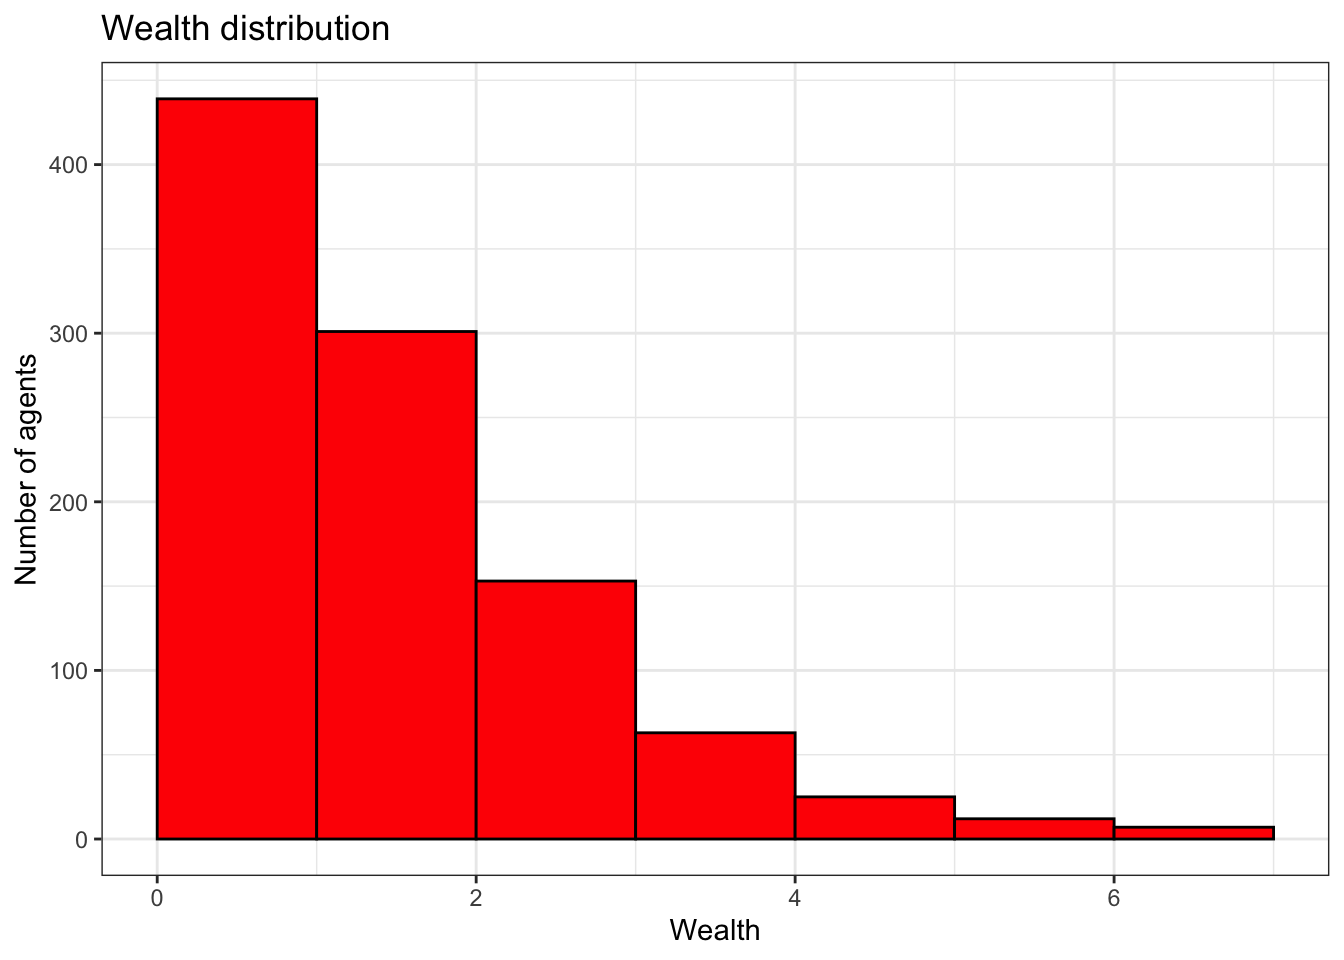
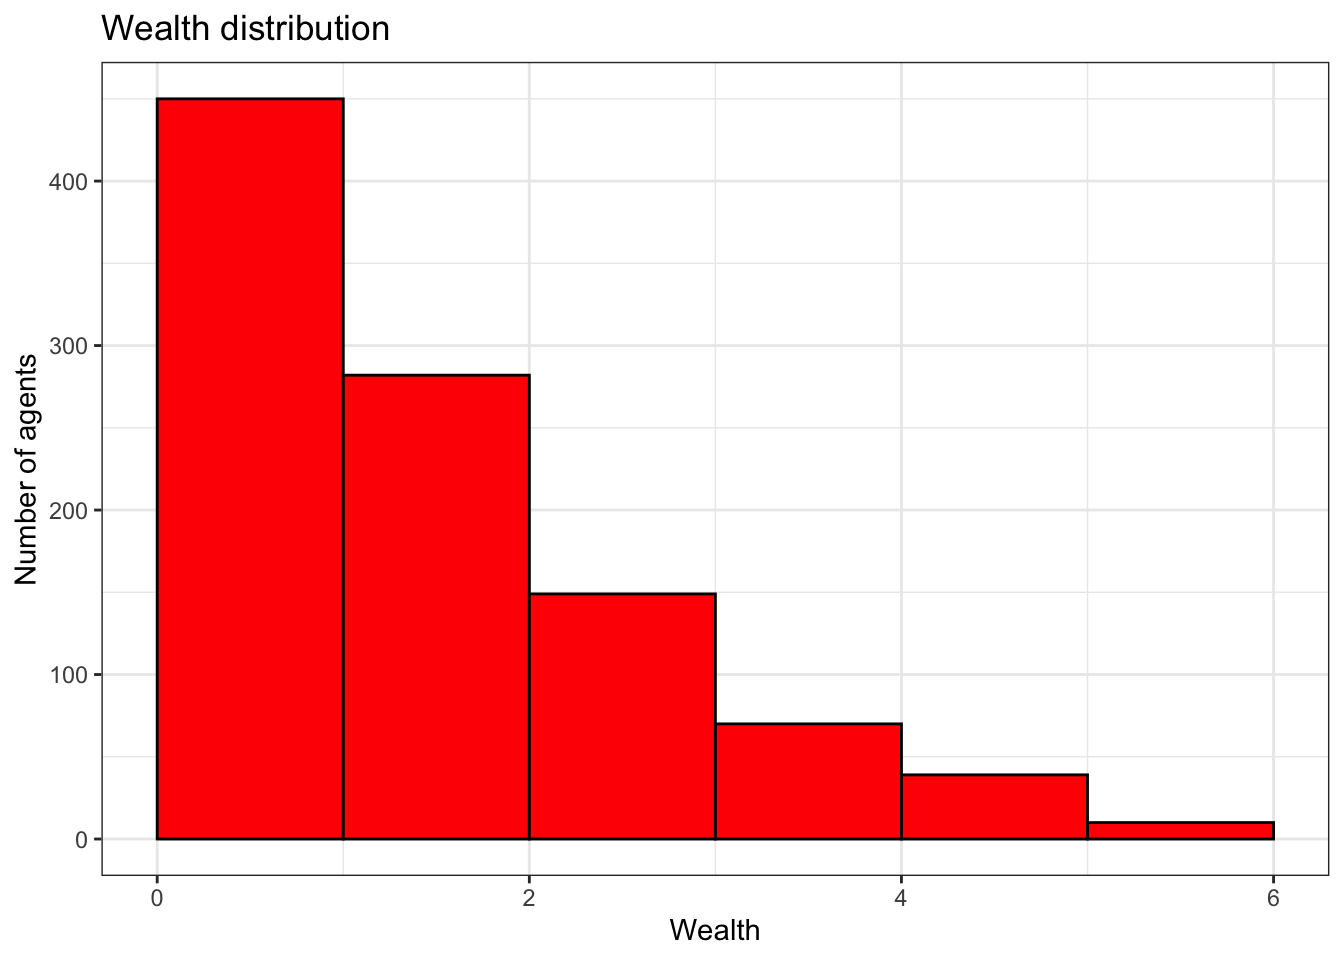
update

diff --git a/docs/index.html b/docs/index.html
@@ -360,16 +360,16 @@ pre > code.sourceCode > span > a:first-child::before { text-decoration: underlin
 <span id="cb7-5"><a href="#cb7-5" aria-hidden="true" tabindex="-1"></a><span class="co"># 运行模型的 step 方法，激活所有 Agent</span></span>
 <span id="cb7-6"><a href="#cb7-6" aria-hidden="true" tabindex="-1"></a>starter_model.step()</span></code><button title="Copy to Clipboard" class="code-copy-button"><i class="bi"></i></button></pre></div>
 <div class="cell-output cell-output-stdout">
-<pre><code>Hi, I am an agent, you can call me 3.
-Hi, I am an agent, you can call me 10.
-Hi, I am an agent, you can call me 9.
-Hi, I am an agent, you can call me 8.
+<pre><code>Hi, I am an agent, you can call me 2.
+Hi, I am an agent, you can call me 1.
 Hi, I am an agent, you can call me 4.
+Hi, I am an agent, you can call me 10.
+Hi, I am an agent, you can call me 8.
 Hi, I am an agent, you can call me 7.
-Hi, I am an agent, you can call me 2.
 Hi, I am an agent, you can call me 6.
 Hi, I am an agent, you can call me 5.
-Hi, I am an agent, you can call me 1.</code></pre>
+Hi, I am an agent, you can call me 3.
+Hi, I am an agent, you can call me 9.</code></pre>
 </div>
 </div>
 <p>如果在创建对象时传入了 <code>seed</code> 参数，则每次运行模型时 <code>Agent</code> 的顺序会保持一致。</p>
@@ -424,16 +424,16 @@ Hi, I am an agent, you can call me 8.</code></pre>
 <span id="cb11-28"><a href="#cb11-28" aria-hidden="true" tabindex="-1"></a>starter_model <span class="op">=</span> MoneyModel(<span class="dv">10</span>)</span>
 <span id="cb11-29"><a href="#cb11-29" aria-hidden="true" tabindex="-1"></a>starter_model.step()</span></code><button title="Copy to Clipboard" class="code-copy-button"><i class="bi"></i></button></pre></div>
 <div class="cell-output cell-output-stdout">
-<pre><code>Hi, I am an agent 1,and I have 1 dollars.
+<pre><code>Hi, I am an agent 8,and I have 1 dollars.
 Hi, I am an agent 4,and I have 1 dollars.
+Hi, I am an agent 7,and I have 1 dollars.
+Hi, I am an agent 1,and I have 1 dollars.
+Hi, I am an agent 2,and I have 1 dollars.
 Hi, I am an agent 6,and I have 1 dollars.
 Hi, I am an agent 5,and I have 1 dollars.
-Hi, I am an agent 10,and I have 1 dollars.
-Hi, I am an agent 8,and I have 1 dollars.
 Hi, I am an agent 3,and I have 1 dollars.
-Hi, I am an agent 9,and I have 1 dollars.
-Hi, I am an agent 2,and I have 1 dollars.
-Hi, I am an agent 7,and I have 1 dollars.</code></pre>
+Hi, I am an agent 10,and I have 1 dollars.
+Hi, I am an agent 9,and I have 1 dollars.</code></pre>
 </div>
 </div>
 </section>
@@ -1387,13 +1387,17 @@ Step AgentID
 <span id="cb51-38"><a href="#cb51-38" aria-hidden="true" tabindex="-1"></a>        <span class="va">self</span>.datacollector.collect(<span class="va">self</span>)</span>
 <span id="cb51-39"><a href="#cb51-39" aria-hidden="true" tabindex="-1"></a>        <span class="co"># 用 agent.select 获取贫富 Agent 的列表</span></span>
 <span id="cb51-40"><a href="#cb51-40" aria-hidden="true" tabindex="-1"></a>        <span class="co"># 这里的 lambda 等于 R 的匿名函数 ~</span></span>
-<span id="cb51-41"><a href="#cb51-41" aria-hidden="true" tabindex="-1"></a>        rich_agents <span class="op">=</span> <span class="va">self</span>.agents.select(<span class="kw">lambda</span> a: a.wealth <span class="op">&gt;=</span> <span class="dv">3</span>)</span>
-<span id="cb51-42"><a href="#cb51-42" aria-hidden="true" tabindex="-1"></a>        poor_agents <span class="op">=</span> <span class="va">self</span>.agents.select(<span class="kw">lambda</span> a: a.wealth <span class="op">&lt;</span> <span class="dv">3</span>)</span>
-<span id="cb51-43"><a href="#cb51-43" aria-hidden="true" tabindex="-1"></a>        <span class="co"># 当有富裕的 Agent 时，富裕的 Agent 给贫穷的 Agent 传递财富</span></span>
-<span id="cb51-44"><a href="#cb51-44" aria-hidden="true" tabindex="-1"></a>        <span class="cf">if</span> <span class="bu">len</span>(rich_agents) <span class="op">&gt;</span> <span class="dv">0</span>:</span>
-<span id="cb51-45"><a href="#cb51-45" aria-hidden="true" tabindex="-1"></a>            rich_agents.shuffle_do(<span class="st">"give_money"</span>, poor_agents)</span>
-<span id="cb51-46"><a href="#cb51-46" aria-hidden="true" tabindex="-1"></a>        <span class="cf">else</span>:</span>
-<span id="cb51-47"><a href="#cb51-47" aria-hidden="true" tabindex="-1"></a>            poor_agents.shuffle_do(<span class="st">"give_money"</span>, poor_agents)</span></code><button title="Copy to Clipboard" class="code-copy-button"><i class="bi"></i></button></pre></div>
+<span id="cb51-41"><a href="#cb51-41" aria-hidden="true" tabindex="-1"></a>        <span class="co"># 在原本的教程中，这里写作model.agents.select</span></span>
+<span id="cb51-42"><a href="#cb51-42" aria-hidden="true" tabindex="-1"></a>        <span class="co"># 这在原生 python 环境中没有问题，因为在调用 model = MoneyModel(100) 时</span></span>
+<span id="cb51-43"><a href="#cb51-43" aria-hidden="true" tabindex="-1"></a>        <span class="co"># 会创建全局变量 model，但在 R 中运行模型时，无法找到</span></span>
+<span id="cb51-44"><a href="#cb51-44" aria-hidden="true" tabindex="-1"></a>        <span class="co"># 因此在这里改写成了更规范的 self.agents.select</span></span>
+<span id="cb51-45"><a href="#cb51-45" aria-hidden="true" tabindex="-1"></a>        rich_agents <span class="op">=</span> <span class="va">self</span>.agents.select(<span class="kw">lambda</span> a: a.wealth <span class="op">&gt;=</span> <span class="dv">3</span>)</span>
+<span id="cb51-46"><a href="#cb51-46" aria-hidden="true" tabindex="-1"></a>        poor_agents <span class="op">=</span> <span class="va">self</span>.agents.select(<span class="kw">lambda</span> a: a.wealth <span class="op">&lt;</span> <span class="dv">3</span>)</span>
+<span id="cb51-47"><a href="#cb51-47" aria-hidden="true" tabindex="-1"></a>        <span class="co"># 当有富裕的 Agent 时，富裕的 Agent 给贫穷的 Agent 传递财富</span></span>
+<span id="cb51-48"><a href="#cb51-48" aria-hidden="true" tabindex="-1"></a>        <span class="cf">if</span> <span class="bu">len</span>(rich_agents) <span class="op">&gt;</span> <span class="dv">0</span>:</span>
+<span id="cb51-49"><a href="#cb51-49" aria-hidden="true" tabindex="-1"></a>            rich_agents.shuffle_do(<span class="st">"give_money"</span>, poor_agents)</span>
+<span id="cb51-50"><a href="#cb51-50" aria-hidden="true" tabindex="-1"></a>        <span class="cf">else</span>:</span>
+<span id="cb51-51"><a href="#cb51-51" aria-hidden="true" tabindex="-1"></a>            poor_agents.shuffle_do(<span class="st">"give_money"</span>, poor_agents)</span></code><button title="Copy to Clipboard" class="code-copy-button"><i class="bi"></i></button></pre></div>
 </div>
 </section>
 <section id="运行模型-3" class="level2" data-number="6.2">
@@ -1408,7 +1412,7 @@ Step AgentID
 <span id="cb52-7"><a href="#cb52-7" aria-hidden="true" tabindex="-1"></a>  <span class="fu">ggplot</span>() <span class="sc">+</span></span>
 <span id="cb52-8"><a href="#cb52-8" aria-hidden="true" tabindex="-1"></a>  <span class="fu">geom_histogram</span>(<span class="fu">aes</span>(Wealth), <span class="at">fill =</span> <span class="st">"steelblue"</span>,<span class="at">binwidth =</span> <span class="dv">1</span>, <span class="at">color =</span> <span class="st">"black"</span>) <span class="sc">+</span></span>
 <span id="cb52-9"><a href="#cb52-9" aria-hidden="true" tabindex="-1"></a>  <span class="fu">labs</span>(</span>
-<span id="cb52-10"><a href="#cb52-10" aria-hidden="true" tabindex="-1"></a>    <span class="at">title =</span> <span class="st">"Distribution of wealth for rich agents"</span>,</span>
+<span id="cb52-10"><a href="#cb52-10" aria-hidden="true" tabindex="-1"></a>    <span class="at">title =</span> <span class="st">"Wealth distribution"</span>,</span>
 <span id="cb52-11"><a href="#cb52-11" aria-hidden="true" tabindex="-1"></a>    <span class="at">x     =</span> <span class="st">"Wealth"</span>,</span>
 <span id="cb52-12"><a href="#cb52-12" aria-hidden="true" tabindex="-1"></a>    <span class="at">y     =</span> <span class="st">"Number of agents"</span></span>
 <span id="cb52-13"><a href="#cb52-13" aria-hidden="true" tabindex="-1"></a>  ) <span class="sc">+</span> <span class="fu">theme_bw</span>()</span></code><button title="Copy to Clipboard" class="code-copy-button"><i class="bi"></i></button></pre></div>
